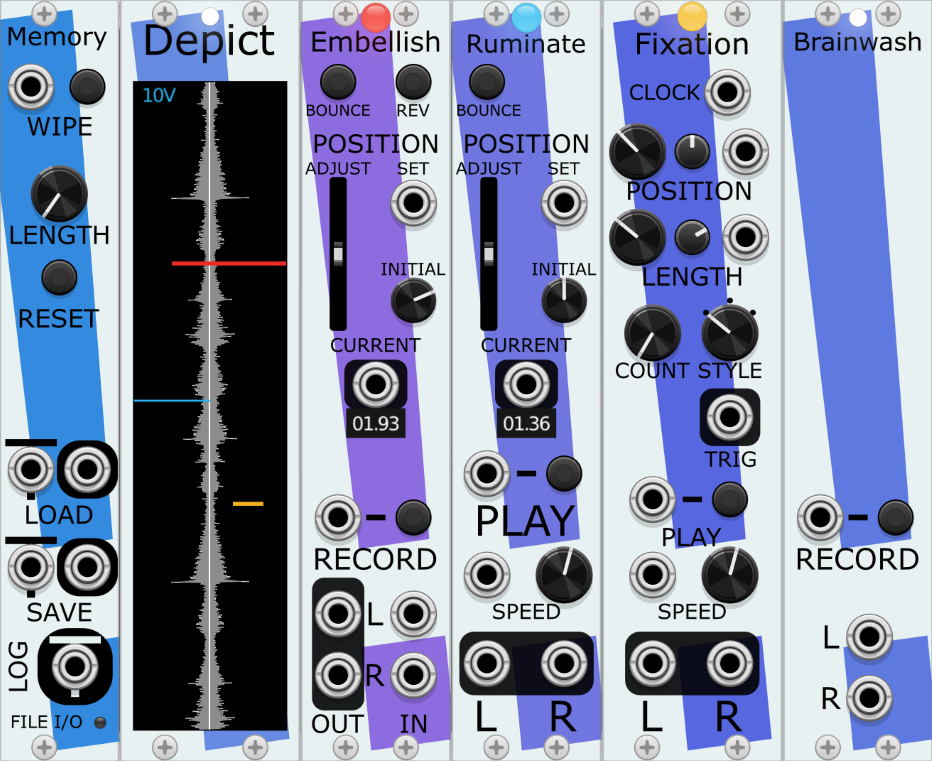
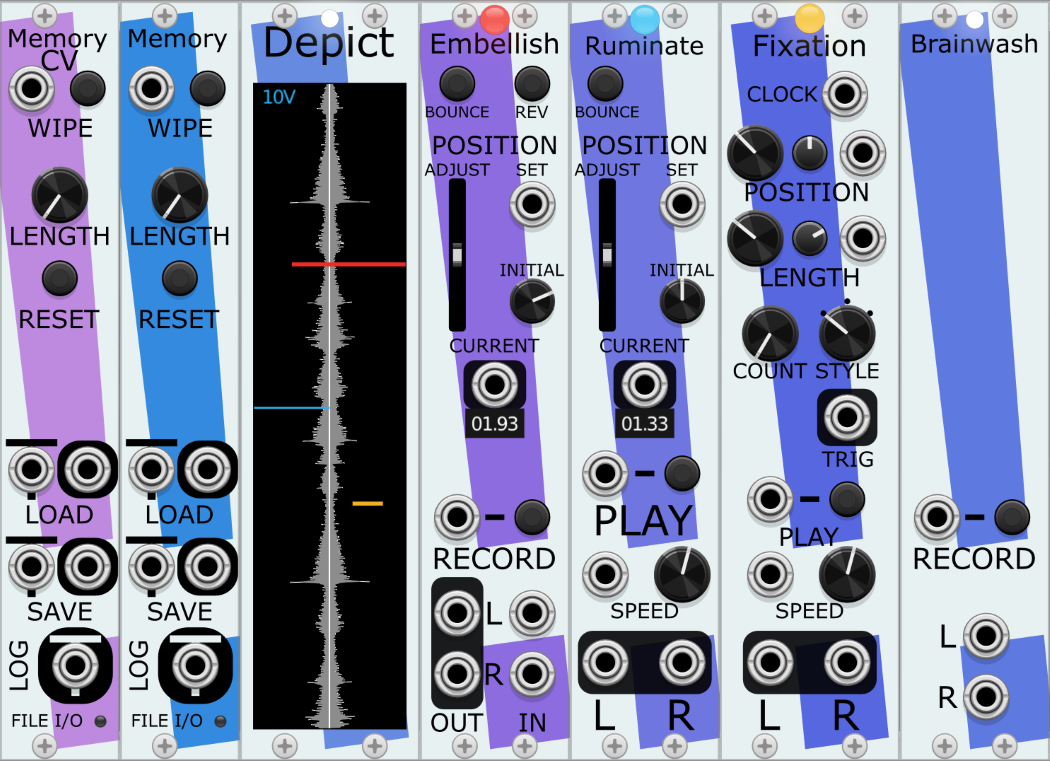
Update docs and images for MemoryCV

diff --git a/Memory.md b/Memory.md
@@ -120,11 +120,11 @@ file doesn't exist or isn't a readable .wav file), when it has completed, a trig
 
 The SAVE input can accept:
 * A file name, or path and a filename
-* * For example, ``foo.wav``, or ``sub/directory/bar.wav``
+* * For example, ``foo.wav``, or ``sub/directory/bar.csv``
 * * This is assumed to be relative to the Save Folder you set in the menu.
 For example, if the Save Folder is set to ``/my sounds``, then sending ``drums/snare.wav`` to the SAVE input will cause Memory to immediately
 save the Memory's contents to the file ``/my sounds/drums/snare.wav``. Note that this will fail if the folder ``/my sounds/drums`` doesn't already exist; Memory
-will not create new sub-folders. Also note, **Memory will happily overwrite an already existing file, and cannot ask you to confirm that's what you want.**
+will not create new sub-folders. Also note, **Memory will happily overwrite an already existing file, and cannot ask you to confirm if that's what you want.**
 #### SAVE Completion Output
 Saving a file takes an amount of time that is hard to predict, since the file can be on an SSD, a spinning hard drive, or a network or cloud drive. And larger
 files take longer to save than shorter ones. To help synchronize events that need to happen *after* the file has loaded, this output is provided.
@@ -137,7 +137,7 @@ any messages it has, including the length of files it reads in. This is especial
 
 ### Menu Options
 #### Pick Folder for Loading
-Select a folder to load audio files from. Once this is done, the "Load File" submenu will be populated with all of the WAV files it can load. Any inputs to the
+Select a folder to load audio files from. Once this is done, the "Load File" submenu will be populated with all of the WAV or [CSV](#csv-files) files it can load. Any inputs to the
 LOAD Tipsy input will be relative to this folder.  
 #### Load File
 Once the Load Folder has been selected, any files Memory thinks it can read (currently only .WAV files) will be listed here, and selecting one will
@@ -146,15 +146,17 @@ immediately load it into the Memory.
 If set, when the patch is loaded (or even when the module is duplicated), it will attempt to load
 in the last file that was loaded.
 #### Pick Folder for Saving
-Select a folder to Save .wav files to. Once this is done, any inputs to the SAVE Tipsy input will be relative to this folder.  
-#### Save to File...
+Select a folder to Save WAV or [CSV](#csv-files) files to. Once this is done, any inputs to the SAVE Tipsy input will be relative to this folder.  
+#### Save to WAV File...
 A standard dialog box to save files will appear. The entire current contents of the Memory buffer will be saved as a WAV file.
+#### Save to CSV File...
+A standard dialog box to save files will appear. The entire current contents of the Memory buffer will be saved as [a CSV file](#csv-files). Note that CSV files cannot be edited or played back by audio software, so the recommendation is to save Memory to WAV files.
 
 ### Known Limitations
 * Putting noise into the LOAD or SAVE Tipsy inputs can crash VCV Rack.
 
 # MemoryCV
-The basis of any MemoryCV ensemble dealing with CV signals is exactly one MemoryCV module. Whichever MemoryCV module is closest to the left side of the other modules in the ensemble is the one used by the ensemble.
+The basis of a MemoryCV ensemble dealing with CV signals is exactly one MemoryCV module. Whichever MemoryCV module is closest to the left side of the other modules in the ensemble is the one used by the ensemble.
 
 A MemoryCV by itself cannot play or record control voltage signals. It is solely where the two CV data signals are stored and can be retrieved.
 
@@ -183,59 +185,31 @@ Gets rid of the previous buffer, creates a new one of LENGTH seconds, then sets 
 **The LOAD input takes *only* [Tipsy](https://github.com/baconpaul/tipsy-encoder) inputs. Tipsy is a way to send text over a VCV Rack cable; currently, the only module that can send controllable Tipsy text is
 [BASICally](README.md#basically) (see the "print()" command).**
 
-MemoryCV can save and load CV as WAV files. The LOAD input can accept two different types of textual messages:
-* A file name, or path and a filename
-* * For example, ``foo.wav``, or ``sub/directory/bar.wav``
-* * This is assumed to be relative to the Load Folder you set in the menu.
-For example, if the Load Folder is set to ``/my sounds``, then sending ``drums/snare.wav`` to the LOAD input will cause MemoryCV to immediately
-replace the MemoryCV's contents with the audio from ``/my sounds/drums/snare.wav``, if that file exists.
-* ``#N``, where N is some integer number
-* * For example, ``#0``, ``#12``, ``#776``
-* * In this case, the Nth file (zero-indexed) in the Load Folder will be loaded, wrapping around to the beginning if N is larger than the number of files.
-So if your Load Folder contained the three files, ``apple.wav``, ``banana.wav``, and ``chocolate.wav``, then ``#0``, ``#3``, and ``#6`` would all refer to ``apple.wav``.
-* * This means that a BASICally program like the following will load a random file in the Load Folder every time IN1 sees a trigger.
-![Memory Example - Load Random File](images/LoadRandomFile.png)
-#### LOAD Completion Output
-Loading a file takes an amount of time that is hard to predict, since the file can be on an SSD, a spinning hard drive, or a network or cloud drive. And larger
-files take longer to read than shorter ones. To help synchronize events that need to happen *after* the file has loaded, this output is provided.
-
-Any time that a file load is completed, no matter how it was started (via the menu or the Tipsy input) and no matter if it succeeds or fails (like if the named
-file doesn't exist or isn't a readable .wav file), when it has completed, a trigger will come out of this output.
+Like the Memory module, MemoryCV can load CV as WAV or [CSV](#csv-files) files. See more explanation in the [Memory section](#load-tipsy-input).
 #### SAVE Tipsy Input
 **The SAVE input takes *only* Tipsy inputs. Tipsy is a way to send text over a VCV Rack cable; currently, the only module that can send useful Tipsy data is
 [BASICally](README.md#basically) (see the "print()" command).**
 
-The SAVE input can accept:
-* A file name, or path and a filename
-* * For example, ``foo.wav``, or ``sub/directory/bar.wav``
-* * This is assumed to be relative to the Save Folder you set in the menu.
-For example, if the Save Folder is set to ``/my sounds``, then sending ``drums/snare.wav`` to the SAVE input will cause MemoryCV to immediately
-save the MemoryCV's contents to the file ``/my sounds/drums/snare.wav``. Note that this will fail if the folder ``/my sounds/drums`` doesn't already exist; MemoryCV
-will not create new sub-folders. Also note, **MemoryCV will happily overwrite an already existing file, and cannot ask you to confirm that's what you want.**
-#### SAVE Completion Output
-Saving a file takes an amount of time that is hard to predict, since the file can be on an SSD, a spinning hard drive, or a network or cloud drive. And larger
-files take longer to save than shorter ones. To help synchronize events that need to happen *after* the file has loaded, this output is provided.
+Like the Memory module, MemoryCV can save CV as WAV or [CSV](#csv-files) files. See more explanation in the [Memory section](#save-tipsy-input).
 
-Any time that a file save is completed, no matter how it was started (via the menu or the Tipsy input) and no matter if it succeeds or fails (like if the named
-folder doesn't exist or can't be written to), when it has completed, a trigger will come out of this output.
 #### LOG Tipsy Output
 If you want to see a human-readable log of load and save events, a cable from this output to one of the TEXTn inputs of the TTY module will show you
 any messages it has, including the length of files it reads in. This is especially useful if files aren't loading or saving as you expect.
 
 ### Menu Options
 #### Pick Folder for Loading
-Select a folder to load audio files from. Once this is done, the "Load File" submenu will be populated with all of the WAV files it can load. Any inputs to the
+Select a folder to load audio files from. Once this is done, the "Load File" submenu will be populated with all of the WAV or [CSV](#csv-files) files it can load. Any inputs to the
 LOAD Tipsy input will be relative to this folder.  
 #### Load File
-Once the Load Folder has been selected, any files MemoryCV thinks it can read (currently only .WAV files) will be listed here, and selecting one will
-immediately load it into the MemoryCV.
+Once the Load Folder has been selected, any files MemoryCV thinks it can read (currently only WAV and [CSV](#csv-files) files) will be listed here, and selecting one will immediately load it into the MemoryCV.
 #### Load most recent file on module start
-If set, when the patch is loaded (or even when the module is duplicated), it will attempt to load
-in the last file that was loaded.
+If set, when the patch is loaded (or even when the module is duplicated), it will attempt to load in the last file that was loaded.
 #### Pick Folder for Saving
-Select a folder to Save .wav files to. Once this is done, any inputs to the SAVE Tipsy input will be relative to this folder.  
-#### Save to File...
+Select a folder to Save WAV or [CSV](#csv-files) files to. Once this is done, any inputs to the SAVE Tipsy input will be relative to this folder.  
+#### Save to WAV File...
 A standard dialog box to save files will appear. The entire current contents of the MemoryCV buffer will be saved as a WAV file.
+#### Save to CSV File...
+A standard dialog box to save files will appear. The entire current contents of the MemoryCV buffer will be saved as [a CSV file](#csv-files). Note that CSV files cannot be edited or played back by audio software. But CSV does make it easy to precisely edit CV signals.
 
 ### Known Limitations
 * Putting noise into the LOAD or SAVE Tipsy inputs can crash VCV Rack.

diff --git a/README.md b/README.md
@@ -5,14 +5,14 @@ self-regulating structure. Exploring the region between random and static.
 ![All Modules image](images/TheFamily.png)
 ![Memory Modules image](images/TheFamilyRowTwo.png)
 
-* [Memory System](Memory.md): A set of six interrelated recording/playback modules with [their own documentation](Memory.md).
+* [Memory System](Memory.md): A set of seven interrelated recording/playback modules with [their own documentation](Memory.md).
 * [BASICally](#basically): A simple, likely familiar procedural programming language within the context of VCV Rack.
 * [Drifter](#drifter): Creates sequences of values that can slowly (or quickly) vary, like a series of points doing random walks connected into a series.
 * [Fermata](#fermata): A text editor and labeling module. Write much longer text notes. Resizable, scrolls, font choices, and more. Or just add some visual emphasis,
 Stochastic Telegraph-style.
 * [Fuse](#fuse): Block, allow, or attenuate a signal passing through, based on the number of triggers observed in a different signal.
 * [TTY](#tty): A scrolling text window that displays distinct values it gets, and also displays [Tipsy](https://github.com/baconpaul/tipsy-encoder) text messages sent by other modules (like BASICally).
-* [Venn](#venn): A 2D graphical signal generator consisting of up to sixteen visible Circles and a visible Point chosen by mouse or CV. Where the Point is in relation to a Circle determines four CV values per Circle. 
+* [Venn](#venn): A 2D graphical signal generator consisting of up to sixteen visible Circles and a visible Point chosen by mouse or CV. Where the Point is in relation to a Circle determines five CV values per Circle. 
 
 ![Line Break image](images/Separator.png)
 
